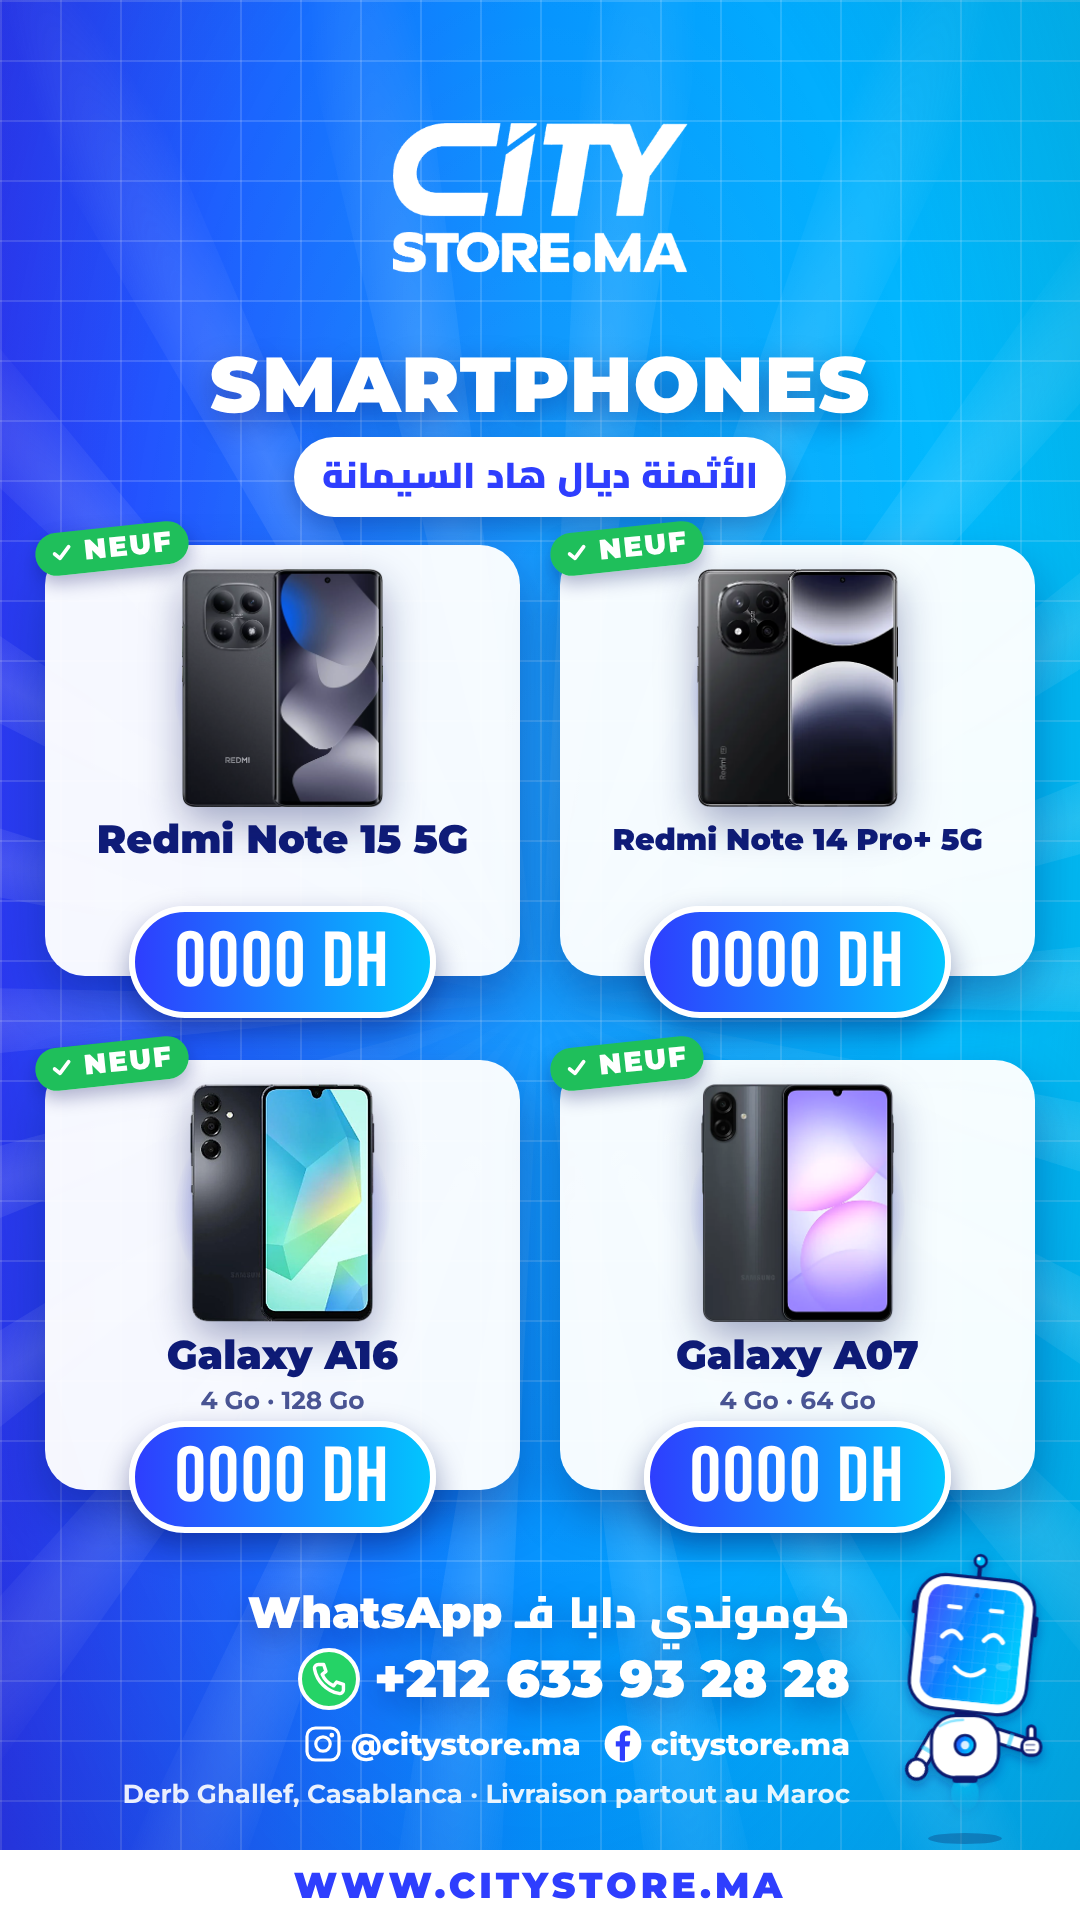
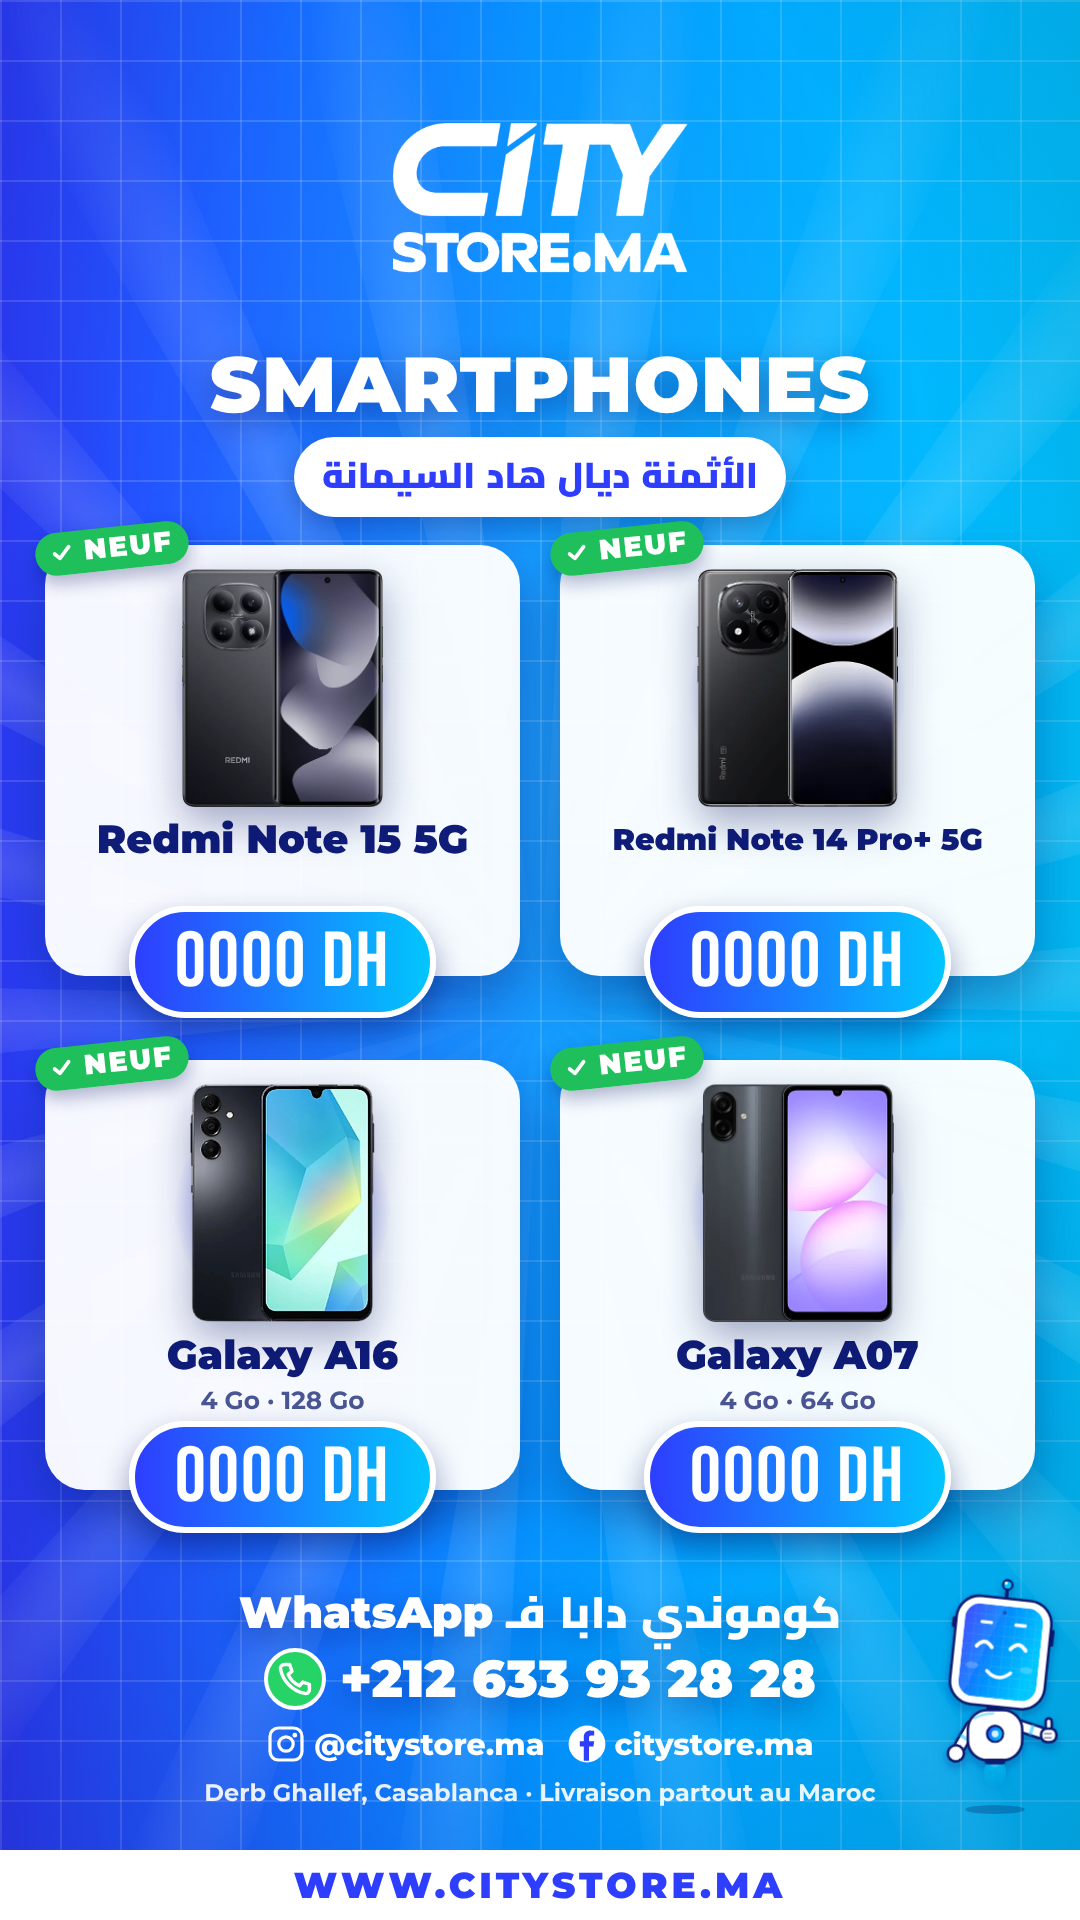
Price list: contact block centred
Claude-Session: https://claude.ai/code/session_01B6UvVnyVQqoyQ1GwELGaCV

Changed region(s): [[0.1222, 0.8125, 0.7944, 0.9375], [0.825, 0.8125, 0.9778, 0.9688]]

diff --git a/src/pricelist/PriceList.tsx b/src/pricelist/PriceList.tsx
@@ -106,22 +106,22 @@ export const PriceList: React.FC<PriceListProps> = ({ title, subtitle, items, wh
         ))}
       </div>
       {/* how to order */}
-      <div style={{ position: "absolute", top: 1590, left: 60, right: 230, display: "flex", flexDirection: "column", gap: 14 }}>
-        <div dir="rtl" style={{ ...heavy, fontSize: 44, textAlign: "right" }}>كوموندي دابا فـ WhatsApp</div>
-        <div style={{ display: "flex", alignItems: "center", gap: 14, alignSelf: "flex-end" }}>
+      <div style={{ position: "absolute", top: 1590, left: 0, right: 0, display: "flex", flexDirection: "column", alignItems: "center", gap: 14 }}>
+        <div dir="rtl" style={{ ...heavy, fontSize: 44, textAlign: "center" }}>كوموندي دابا فـ WhatsApp</div>
+        <div style={{ display: "flex", alignItems: "center", gap: 14 }}>
           <div style={{ width: 62, height: 62, borderRadius: "50%", background: "#25D366", display: "flex", alignItems: "center", justifyContent: "center", border: "4px solid #fff" }}>
             <LineIcon name="call" size={38} stroke={9} color="#fff" />
           </div>
           <div style={{ ...heavy, fontSize: 52 }}>{whatsapp}</div>
         </div>
-        <div style={{ display: "flex", gap: 22, alignSelf: "flex-end", alignItems: "center", fontFamily: FONT, fontWeight: 800, fontSize: 30, color: "#fff" }}>
+        <div style={{ display: "flex", gap: 22, alignItems: "center", fontFamily: FONT, fontWeight: 800, fontSize: 30, color: "#fff" }}>
           <span style={{ display: "flex", alignItems: "center", gap: 8 }}><LineIcon name="instagram" size={40} stroke={8} />{SOCIAL.instagram}</span>
           <span style={{ display: "flex", alignItems: "center", gap: 8 }}><FacebookGlyph size={40} />{SOCIAL.facebook}</span>
         </div>
-        <div style={{ alignSelf: "flex-end", fontFamily: FONT, fontWeight: 700, fontSize: 26, color: "rgba(255,255,255,0.9)" }}>{footnote}</div>
+        <div style={{ fontFamily: FONT, fontWeight: 700, fontSize: 24, color: "rgba(255,255,255,0.9)" }}>{footnote}</div>
       </div>
-      <div style={{ position: "absolute", right: 10, top: 1555 }}>
-        <Citybot id="pricelist" width={210} expression="happy" mouth="smile" tilt={6} rightArm={{ rot: 72, hand: "thumb" }} leftArm={{ rot: 30, hand: "open" }} hover={8} />
+      <div style={{ position: "absolute", right: 0, top: 1580 }}>
+        <Citybot id="pricelist" width={170} expression="happy" mouth="smile" tilt={6} rightArm={{ rot: 72, hand: "thumb" }} leftArm={{ rot: 30, hand: "open" }} hover={8} />
       </div>
       {/* website bar */}
       <div style={{ position: "absolute", bottom: 0, left: 0, right: 0, height: 70, background: "#fff", display: "flex", alignItems: "center", justifyContent: "center", fontFamily: FONT, fontWeight: 900, fontSize: 36, color: COLORS.blue, letterSpacing: 4 }}>
